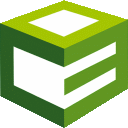
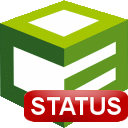
Release 0.0.3
* Modify logo (icons) to reflect the real application's name
  * Link the status message to Centreon entry page
  * Set badge to 'P' (instead of 1) on poller events

Changed region(s): [[0.1875, 0.6875, 1.0, 0.9688]]

diff --git a/js/popup.js b/js/popup.js
@@ -31,7 +31,7 @@ function show() {
   chrome.extension.sendRequest({ reqtype: 'get-data' }, function(response) {
     // All is good when state is 'true' and error is not 'undefined'
     if (response.state && !response.error) {
-      var out =
+      var overview =
       // Poller states
           '<div id="states"><h3>' + i18n('poller_states') + '</h3><table>'
         + '<tr><td colspan="2" class="normal">' + i18n('last_update') + convertTimestamp(response.ts)
@@ -70,12 +70,12 @@ function show() {
         + '</td><td class="pend">' + response.svc_pend
         + '</td></tr></table></div><br/>'
       // Final status summary string
-        + '<p id="' + response.status + '">' + response.message + '</p>';
+        + '<p id="' + response.status + '"><a class="external" style="text-decoration: none;" href="'
+        + window.localStorage.url
+        + '">' + response.message + '</a></p>';
 
-      $('#output').html(out);
-      //$('#outputUnhandledProblems').html('');
-      //$('#outputAllProblems').html('');
-      //$('#outputAllServices').html('');
+      $('#outputOverview').html(overview);
+      //$('#outputUnhandled').html('');
     } else {
       debug_log('Received false response from background: ' + response.error);
 
@@ -94,31 +94,29 @@ function show() {
       else
         msg = i18n('no_data');
 
-      $('#output').html(msg);
-      //$('#outputUnhandledProblems').html(msg);
-      //$('#outputAllProblems').html(msg);
-      //$('#outputAllServices').html(msg);
+      $('#outputOverview').html(msg);
+      //$('#outputUnhandled').html(msg);
     }
 
     // Handle links
     $('a.centreon-link').click(function () { goto($(this).data('href')); })
+    $('a.external').click(function() { goto(this.href); });
   });
 }
 
 $(document).ready(function() {
   // Load locale strings
-  id('span-overview').innerHTML = i18n('overview');
-  id('span-about').innerHTML    = i18n('about');
-  id('h-title').innerText       = i18n('appname');
-  id('a-options').innerHTML     = i18n('options');
-  id('p-about').innerHTML       = i18n('aboutapp');
-  id('p-license').innerHTML     = i18n('license');
-  id('p-author').innerHTML      = i18n('author');
+  id('span-overview').innerHTML  = i18n('overview');
+  //id('span-unhandled').innerHTML = i18n('unhandled');
+  id('span-about').innerHTML     = i18n('about');
+  id('h-title').innerText        = i18n('appname');
+  id('a-options').innerHTML      = i18n('options');
+  id('p-about').innerHTML        = i18n('aboutapp');
+  id('p-license').innerHTML      = i18n('license');
+  id('p-author').innerHTML       = i18n('author');
 
   // Show tabs
   $('#tabs').tabs();
-
-  $('a.ext').click(function() { goto(this.href); });
 
   // Draw screen
   show();

diff --git a/views/popup.html b/views/popup.html
@@ -20,28 +20,17 @@
 <div id="tabs">
   <ul>
     <li><a href="#tab-1"><span id="span-overview">Overview</span></a></li>
-    <!--li><a href="#tab-2"><span>Unhandled Problems</span></a></li-->
-    <!--li><a href="#tab-3"><span>All Problems</span></a></li-->
-    <!--li><a href="#tab-4"><span>All Services</span></a></li-->
-    <li><a href="#tab-5"><span id="span-about">About</span></a></li>
+    <!--li><a href="#tab-2"><span id="span-unhandled">Unhandled</span></a></li-->
+    <li><a href="#tab-3"><span id="span-about">About</span></a></li>
   </ul>
 
   <div id="tab-1">
-    <div id="output"></div>
+    <div id="outputOverview"></div>
   </div>
   <!--div id="tab-2">
-    <h3>Unhandled Problems</h3>
-    <div id="outputUnhandledProblems"></div>
+    <div id="outputUnhandled"></div>
   </div-->
-  <!--div id="tab-3">
-    <h3>All Problems</h3>
-    <div id="outputAllProblems"></div>
-  </div-->
-  <!--div id="tab-4">
-    <h3>All Services</h3>
-    <div id="outputAllServices"></div>
-  </div-->
-  <div id="tab-5">
+  <div id="tab-3">
     <h3 id="h-title">Centreon Status</h3>
     <p id="p-about"><strong></strong></p>
     <p id="p-license"></p>
@@ -51,7 +40,7 @@
 
 <div id="footer">
   <div id="footer-buttons">
-    <a class="ext" href="options.html" id="a-options">Options</a>
+    <a class="external" href="options.html" id="a-options">Options</a>
   </div>
 </div>
 

diff --git a/js/centreon.js b/js/centreon.js
@@ -116,7 +116,7 @@ function Centreon(ts, addHandled) {
     } else if (this.pollers[POLLER_STATE] == 2 || this.pollers[POLLER_LATENCY] == 2 || this.pollers[POLLER_ACTIVE] == 2) {
       this.message = i18n('check_pollers');
       this.status  = 'crit';
-      this.count   = 1;
+      this.count   = 'P';
 
     // Warning status: service(s) warning or pollers warning
     } else if (this.services[svc_warn]  > 0) {
@@ -126,7 +126,7 @@ function Centreon(ts, addHandled) {
     } else if (this.pollers[POLLER_STATE] == 1 || this.pollers[POLLER_LATENCY] == 1 || this.pollers[POLLER_ACTIVE] == 1) {
       this.message = i18n('check_pollers');
       this.status  = 'warn';
-      this.count   = 1;
+      this.count   = 'P';
 
     // Unreachable status: host(s) unreachable
     } else if (this.hosts[HOST_UNRC] > 0) {

diff --git a/changelog.md b/changelog.md
@@ -1,6 +1,12 @@
 Changelog
 =========
 
+0.0.3 - 12. 01. 2015
+--------------------
+* Modify logo (icons) to reflect the real application's name
+* Link the status message to Centreon entry page
+* Set badge to 'P' (instead of 1) on poller events
+
 0.0.2 - 05. 01. 2015
 --------------------
 * Fix 'en' locale string typos and improve translation
